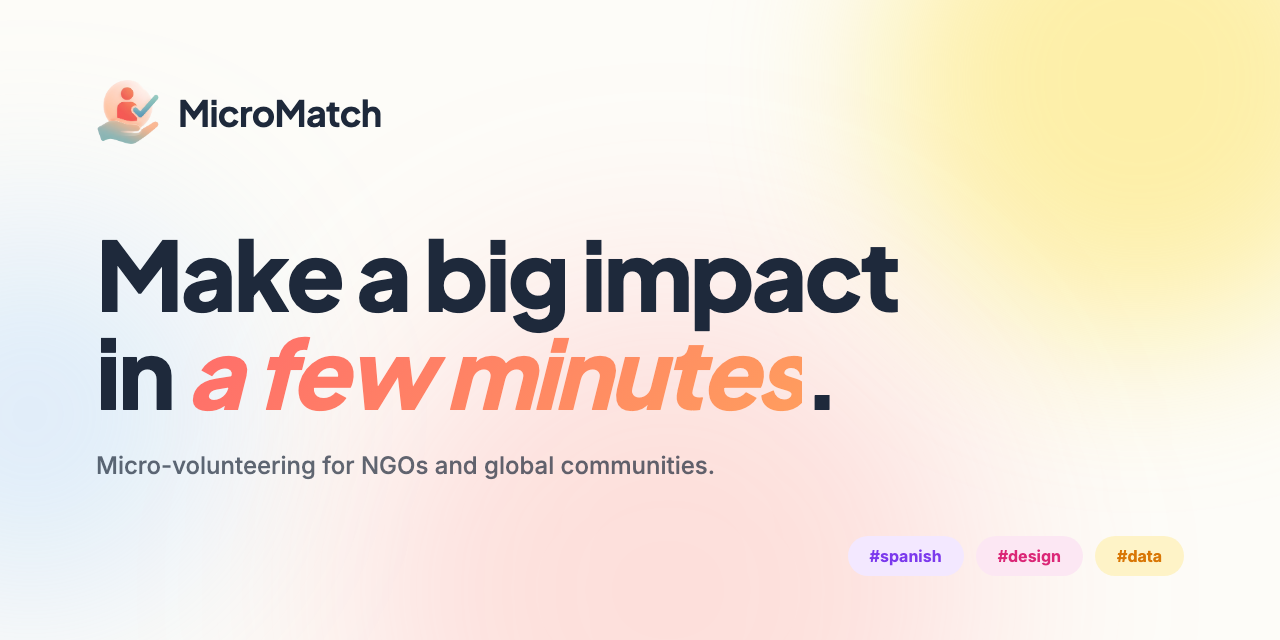
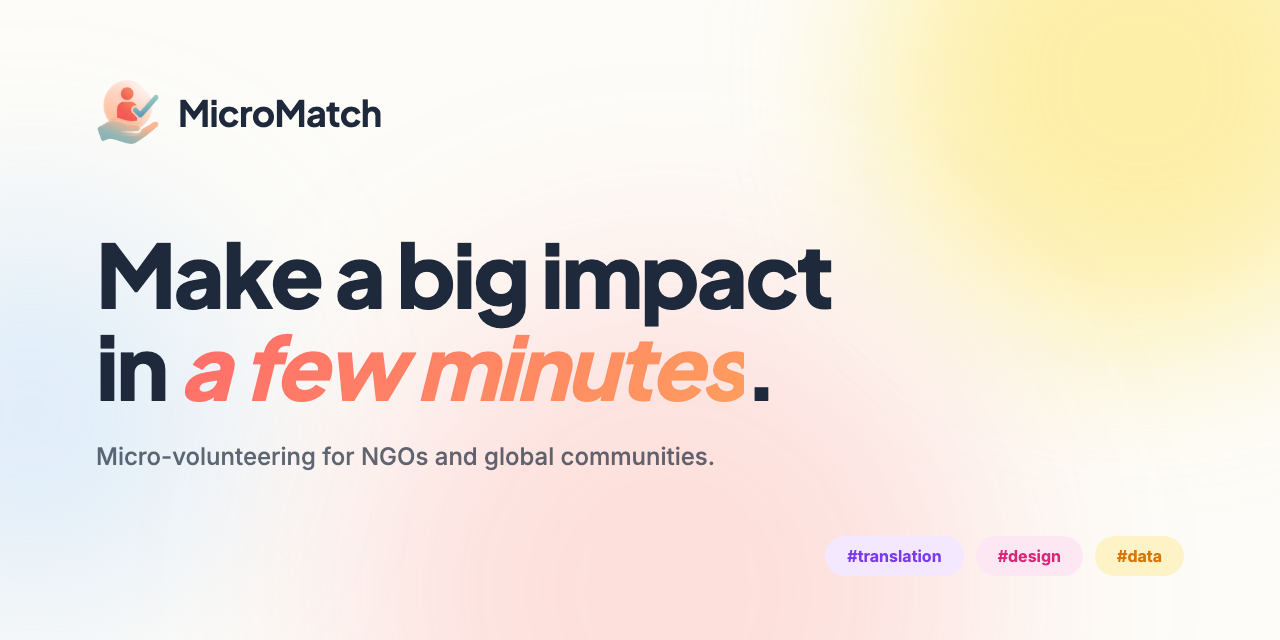
chore(brand): tighten social preview headline + swap #spanish for #translation
- Headline: 96 → 88 px, max-width 980 → 920 px, line-height 1.02 → 1.04
  so "minutes." stops crowding the right edge in tighter previews.
- Chip: #spanish → #translation. The original tag was a language label
  from the feed; on a social card it read as the feature instead of one
  example. #translation #design #data now communicates "diverse types
  of micro-volunteering tasks" without singling out a language.

Re-rendered the PNG via \`bun run social-preview\`.

diff --git a/static/social-preview.html b/static/social-preview.html
@@ -74,14 +74,14 @@
     .hero {
       position: relative;
       z-index: 1;
-      margin-top: 80px;
-      max-width: 980px;
+      margin-top: 84px;
+      max-width: 920px;
     }
     .hero h1 {
       font-family: 'Plus Jakarta Sans', 'Inter', sans-serif;
-      font-size: 96px;
+      font-size: 88px;
       font-weight: 800;
-      line-height: 1.02;
+      line-height: 1.04;
       letter-spacing: -0.03em;
       margin-bottom: 28px;
       color: #1E293B;
@@ -116,9 +116,9 @@
       font-weight: 700;
       font-family: 'Inter', sans-serif;
     }
-    .chip-spanish { background: #F3E8FF; color: #7C3AED; }
-    .chip-design  { background: #FCE7F3; color: #DB2777; }
-    .chip-data    { background: #FEF3C7; color: #D97706; }
+    .chip-translation { background: #F3E8FF; color: #7C3AED; }
+    .chip-design      { background: #FCE7F3; color: #DB2777; }
+    .chip-data        { background: #FEF3C7; color: #D97706; }
   </style>
 </head>
 <body>
@@ -137,7 +137,7 @@
   </section>
 
   <div class="chips">
-    <span class="chip chip-spanish">#spanish</span>
+    <span class="chip chip-translation">#translation</span>
     <span class="chip chip-design">#design</span>
     <span class="chip chip-data">#data</span>
   </div>